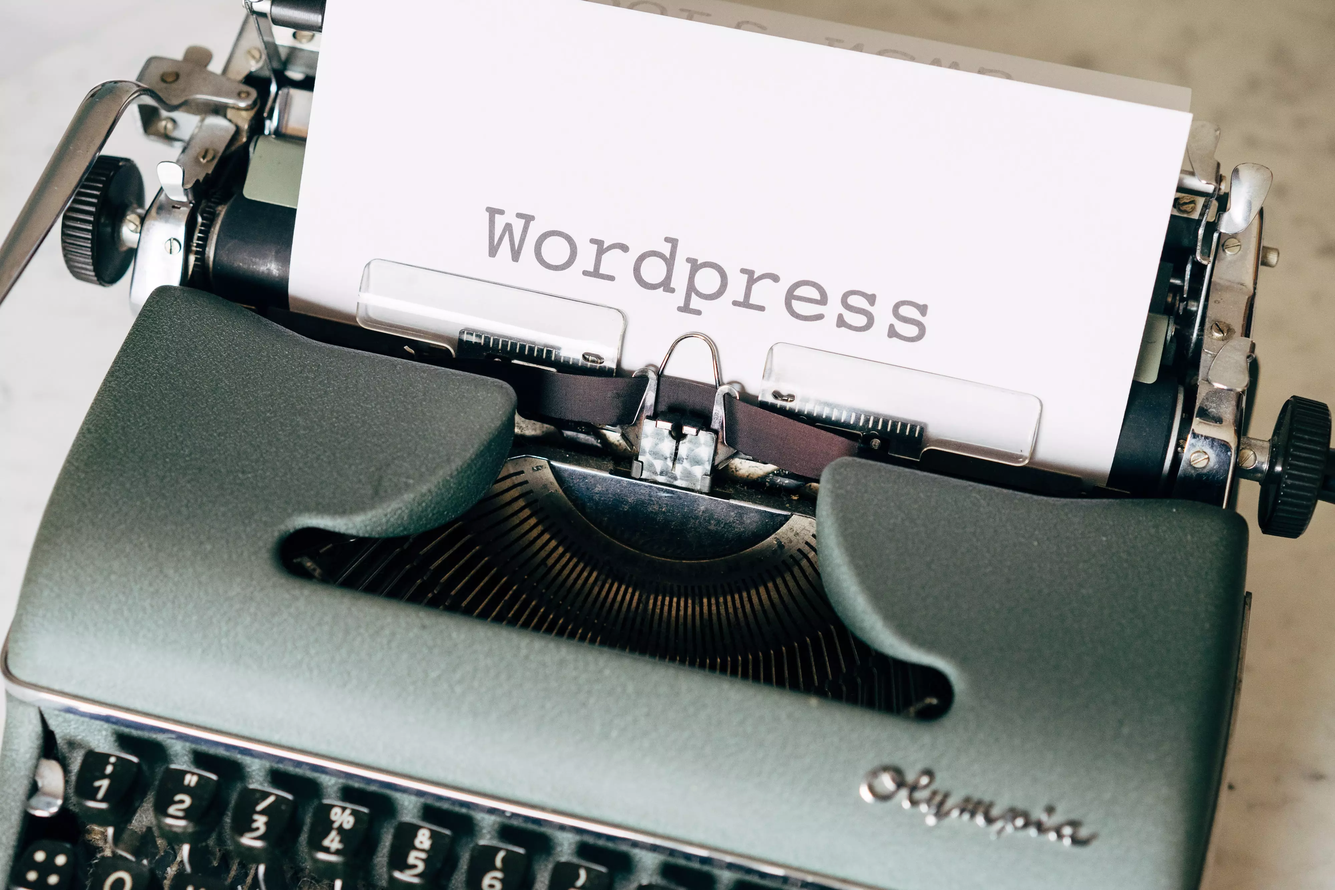
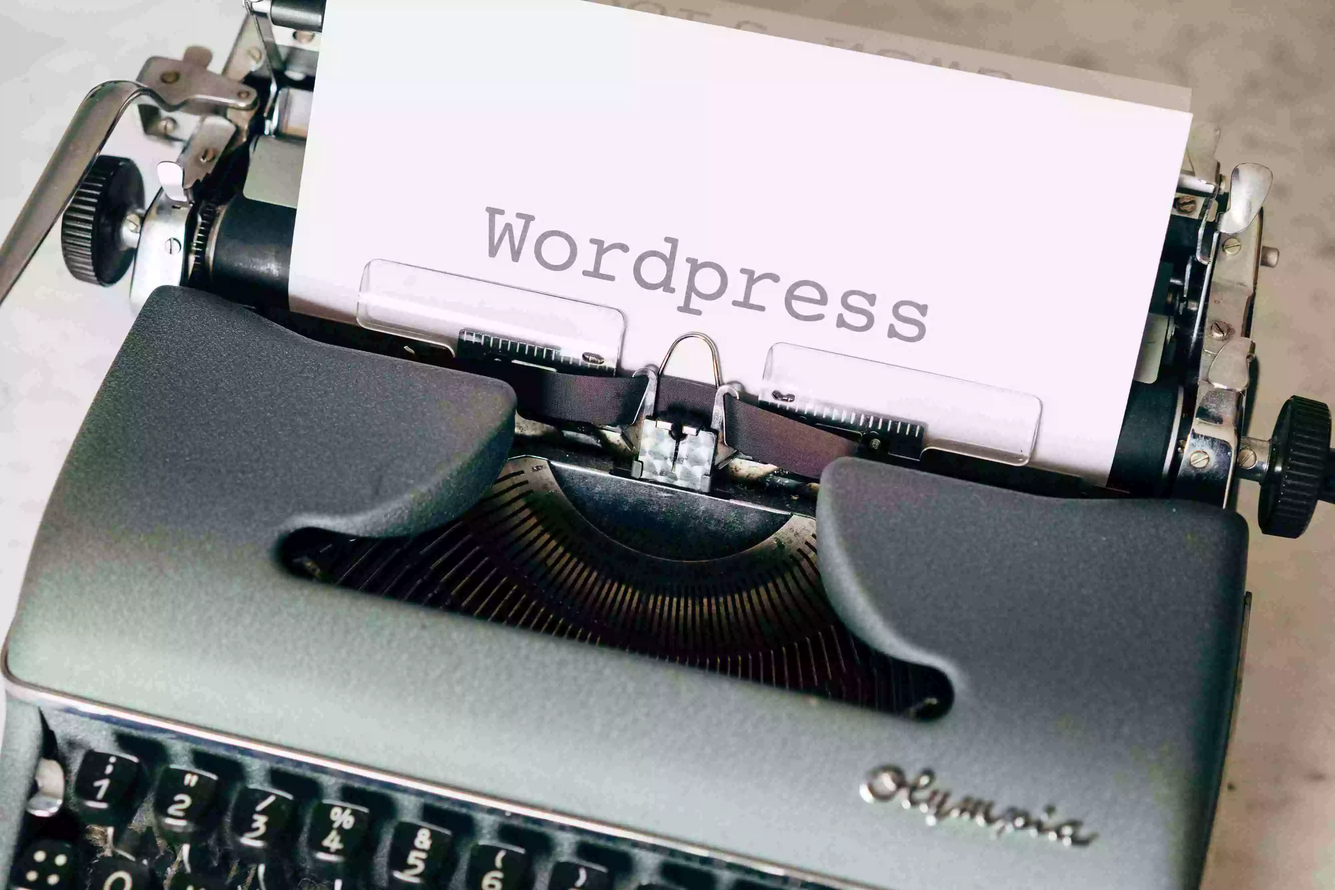
image optimization

diff --git a/app/page.js b/app/page.js
@@ -1,8 +1,8 @@
 import Banner from '@/components/banner/page'
 // import banner1 from '../public/images/bg_1.webp';
 // import banner2 from '../public/images/bg_2.webp';
-import banner1 from '../public/image/banner_1.jpg';
-import banner2 from '../public/image/banner_2.jpg';
+import banner1 from '../public/image/banner_1.webp';
+import banner2 from '../public/image/banner_2.webp';
 import { BiSolidChevronRight,BiHappy } from 'react-icons/bi';
 import ServiceCard from '@/components/serviceCard/page';
 import { MdDesignServices, MdDeveloperMode } from 'react-icons/md';
@@ -12,21 +12,21 @@ import {  TbBulbFilled, TbDeviceAnalytics } from 'react-icons/tb';
 import { GiTeamIdea } from 'react-icons/gi';
 // import about1 from '../public/images/about-1.webp';
 // import about2 from '../public/images/about.webp';
-import about from '../public/image/about_us.jpg';
-import about1 from '../public/image/about_us_1.jpg';
+import about from '../public/image/about_us.webp';
+import about1 from '../public/image/about_us_1.webp';
 import StudioTwoColumn from '@/components/studioTwoColumn/page';
 // import staff1 from '../public/images/staff-1.webp';
 // import staff2 from '../public/images/staff-2.webp';
 // import staff3 from '../public/images/staff-3.webp';
 // import TeamMemberCards from '@/components/teamMemberCard/page';
 // import bgImage from '../public/images/bg_4.webp';
-import bgImage from '../public/image/bg_cover.jpg';
+import bgImage from '../public/image/bg_cover.webp';
 import {GoChecklist} from "react-icons/go";
 import {RiCustomerService2Line} from "react-icons/ri";
 import CountSection from '@/components/countSection/page';
 import {LuChevronDown,LuChevronUp} from 'react-icons/lu';
 // import about2 from "../public/images/about-2.webp";
-import about2 from "../public/image/faq.jpg";
+import about2 from "../public/image/faq.webp";
 import FaqSection from '@/components/faqSection/page';
 import SubscribeSection from '@/components/subscribeSection/page';
 

diff --git a/app/about/page.jsx b/app/about/page.jsx
@@ -1,14 +1,14 @@
 import React from 'react'
 // import bannerImage from '../../public/images/bg_2.webp';
-import bannerImage from '../../public/image/banner_3.jpg';
+import bannerImage from '../../public/image/banner_3.webp';
 import Banner from '@/components/banner/page';
 import StudioTwoColumn from '@/components/studioTwoColumn/page';
 import {TbBulbFilled} from 'react-icons/tb';
 import {GiTeamIdea} from 'react-icons/gi';
 // import image1 from '../../public/images/about-1.webp';
 // import image2 from '../../public/images/about.webp';
-import about from '../../public/image/about_us.jpg';
-import about1 from '../../public/image/about_us_1.jpg';
+import about from '../../public/image/about_us.webp';
+import about1 from '../../public/image/about_us_1.webp';
 import { FaFacebookF, FaTwitter, FaInstagram, FaUserTie, FaGoogle } from 'react-icons/fa';
 // import staff1 from '../../public/images/staff-1.webp';
 // import staff2 from '../../public/images/staff-2.webp';
@@ -18,14 +18,14 @@ import { FaFacebookF, FaTwitter, FaInstagram, FaUserTie, FaGoogle } from 'react-
 // import staff6 from '../../public/images/staff-6.webp';
 // import TeamMemberCards from '@/components/teamMemberCard/page';
 // import bgImage from '../../public/images/bg_4.webp';
-import bgImage from '../../public/image/bg_cover.jpg';
+import bgImage from '../../public/image/bg_cover.webp';
 import {GoChecklist} from "react-icons/go";
 import {RiCustomerService2Line} from "react-icons/ri";
 import { BiHappy } from 'react-icons/bi';
 import CountSection from '@/components/countSection/page';
 import {LuChevronDown,LuChevronUp} from 'react-icons/lu';
 // import about2 from "../../public/images/about-2.webp";
-import about2 from "../../public/image/faq.jpg";
+import about2 from "../../public/image/faq.webp";
 import FaqSection from '@/components/faqSection/page';
 
 export const metadata={

diff --git a/app/services/page.js b/app/services/page.js
@@ -1,6 +1,6 @@
 import React from 'react'
 // import bannerImage from '../../public/images/bg_2.webp';
-import bannerImage from '../../public/image/banner_4.jpg';
+import bannerImage from '../../public/image/banner_4.webp';
 import Banner from '@/components/banner/page';
 import ServiceCard from '@/components/serviceCard/page';
 import { BiSolidChevronRight } from 'react-icons/bi';
@@ -9,7 +9,7 @@ import {FaLaptopCode, FaWordpress} from 'react-icons/fa';
 import {PiCertificateBold} from 'react-icons/pi';
 import {TbDeviceImacSearch, TbDeviceAnalytics} from 'react-icons/tb';
 // import bgImage from '../../public/images/bg_4.webp';
-import bgImage from '../../public/image/bg_cover.jpg';
+import bgImage from '../../public/image/bg_cover.webp';
 import SubscribeSection from '@/components/subscribeSection/page';
 
 export const metadata={

diff --git a/app/portfolio/page.jsx b/app/portfolio/page.jsx
@@ -1,11 +1,11 @@
 import React from 'react'
 // import bannerImage from '../../public/images/bg_2.webp';
-import bannerImage from '../../public/image/banner_5.jpg';
+import bannerImage from '../../public/image/banner_5.webp';
 import Banner from '@/components/banner/page';
 // import bgImage from '../../public/images/bg_4.webp';
-import bgImage from '../../public/image/bg_cover.jpg';
-import Infinitum from '../../public/image/infinitumfoodproducts.png';
-import Jenhsus from '../../public/image/jehnsusmusic.png';
+import bgImage from '../../public/image/bg_cover.webp';
+import Infinitum from '../../public/image/infinitumfoodproducts.webp';
+import Jenhsus from '../../public/image/jehnsusmusic.webp';
 import SubscribeSection from '@/components/subscribeSection/page';
 import Cards from '@/components/cards/page';
 

diff --git a/app/contact/page.jsx b/app/contact/page.jsx
@@ -1,11 +1,11 @@
 import React from 'react'
 // import bannerImage from '../../public/images/bg_2.webp';
-import bannerImage from '../../public/image/banner_7.jpg';
+import bannerImage from '../../public/image/banner_7.webp';
 import Banner from '@/components/banner/page';
 import { BiMailSend, BiSolidMap,BiSolidPhone } from 'react-icons/bi';
 import ContactSection from '@/components/contactSection/page';
 // import About4 from "../../public/images/about-4.webp";
-import About4 from "../../public/image/contact_2.jpg";
+import About4 from "../../public/image/contact_2.webp";
 export const metedata={
   title:"Contact",
   description:"Contact page in emerald"

diff --git a/app/portfolio/[slug]/page.jsx b/app/portfolio/[slug]/page.jsx
@@ -1,9 +1,9 @@
 "use client";
 import React, { useEffect, useState } from 'react';
-import bannerImage from '../../../public/image/banner_8.jpg';
+import bannerImage from '../../../public/image/banner_8.webp';
 import Banner from '@/components/banner/page';
-import Infinitum from "../../../public/image/infinitumfoodproducts.png";
-import Jehnsus from "../../../public/image/jehnsusmusic.png";
+import Infinitum from "../../../public/image/infinitumfoodproducts.webp";
+import Jehnsus from "../../../public/image/jehnsusmusic.webp";
 import ProjectDetails from '@/components/projectDetails';
 const bannerDetails = {
   bannerImage,

diff --git a/app/blog/page.jsx b/app/blog/page.jsx
@@ -1,9 +1,9 @@
 import React from 'react'
 // import bannerImage from '../../public/images/bg_2.webp';
-import bannerImage from '../../public/image/banner_6.jpg';
+import bannerImage from '../../public/image/banner_6.webp';
 import Banner from '@/components/banner/page';
 // import bgImage from '../../public/images/bg_4.webp';
-import bgImage from '../../public/image/bg_cover.jpg';
+import bgImage from '../../public/image/bg_cover.webp';
 import SubscribeSection from '@/components/subscribeSection/page';
 
 export const metadata={

diff --git a/app/services/[slug]/page.jsx b/app/services/[slug]/page.jsx
@@ -1,6 +1,6 @@
 "use client";
 import React, { useEffect, useState } from 'react';
-import bannerImage from '../../../public/image/banner_8.jpg';
+import bannerImage from '../../../public/image/banner_8.webp';
 import Banner from '@/components/banner/page';
 import Web from "../../../public/image/web.webp";
 import App from "../../../public/image/app.webp";

diff --git a/app/layout.js b/app/layout.js
@@ -18,7 +18,7 @@ export const metadata = {
 }
 const headerData = {
   email:{
-    email:"emarald@gmail.com",
+    email:"emerald@gmail.com",
     text:"email us : "
   },
   logo,
